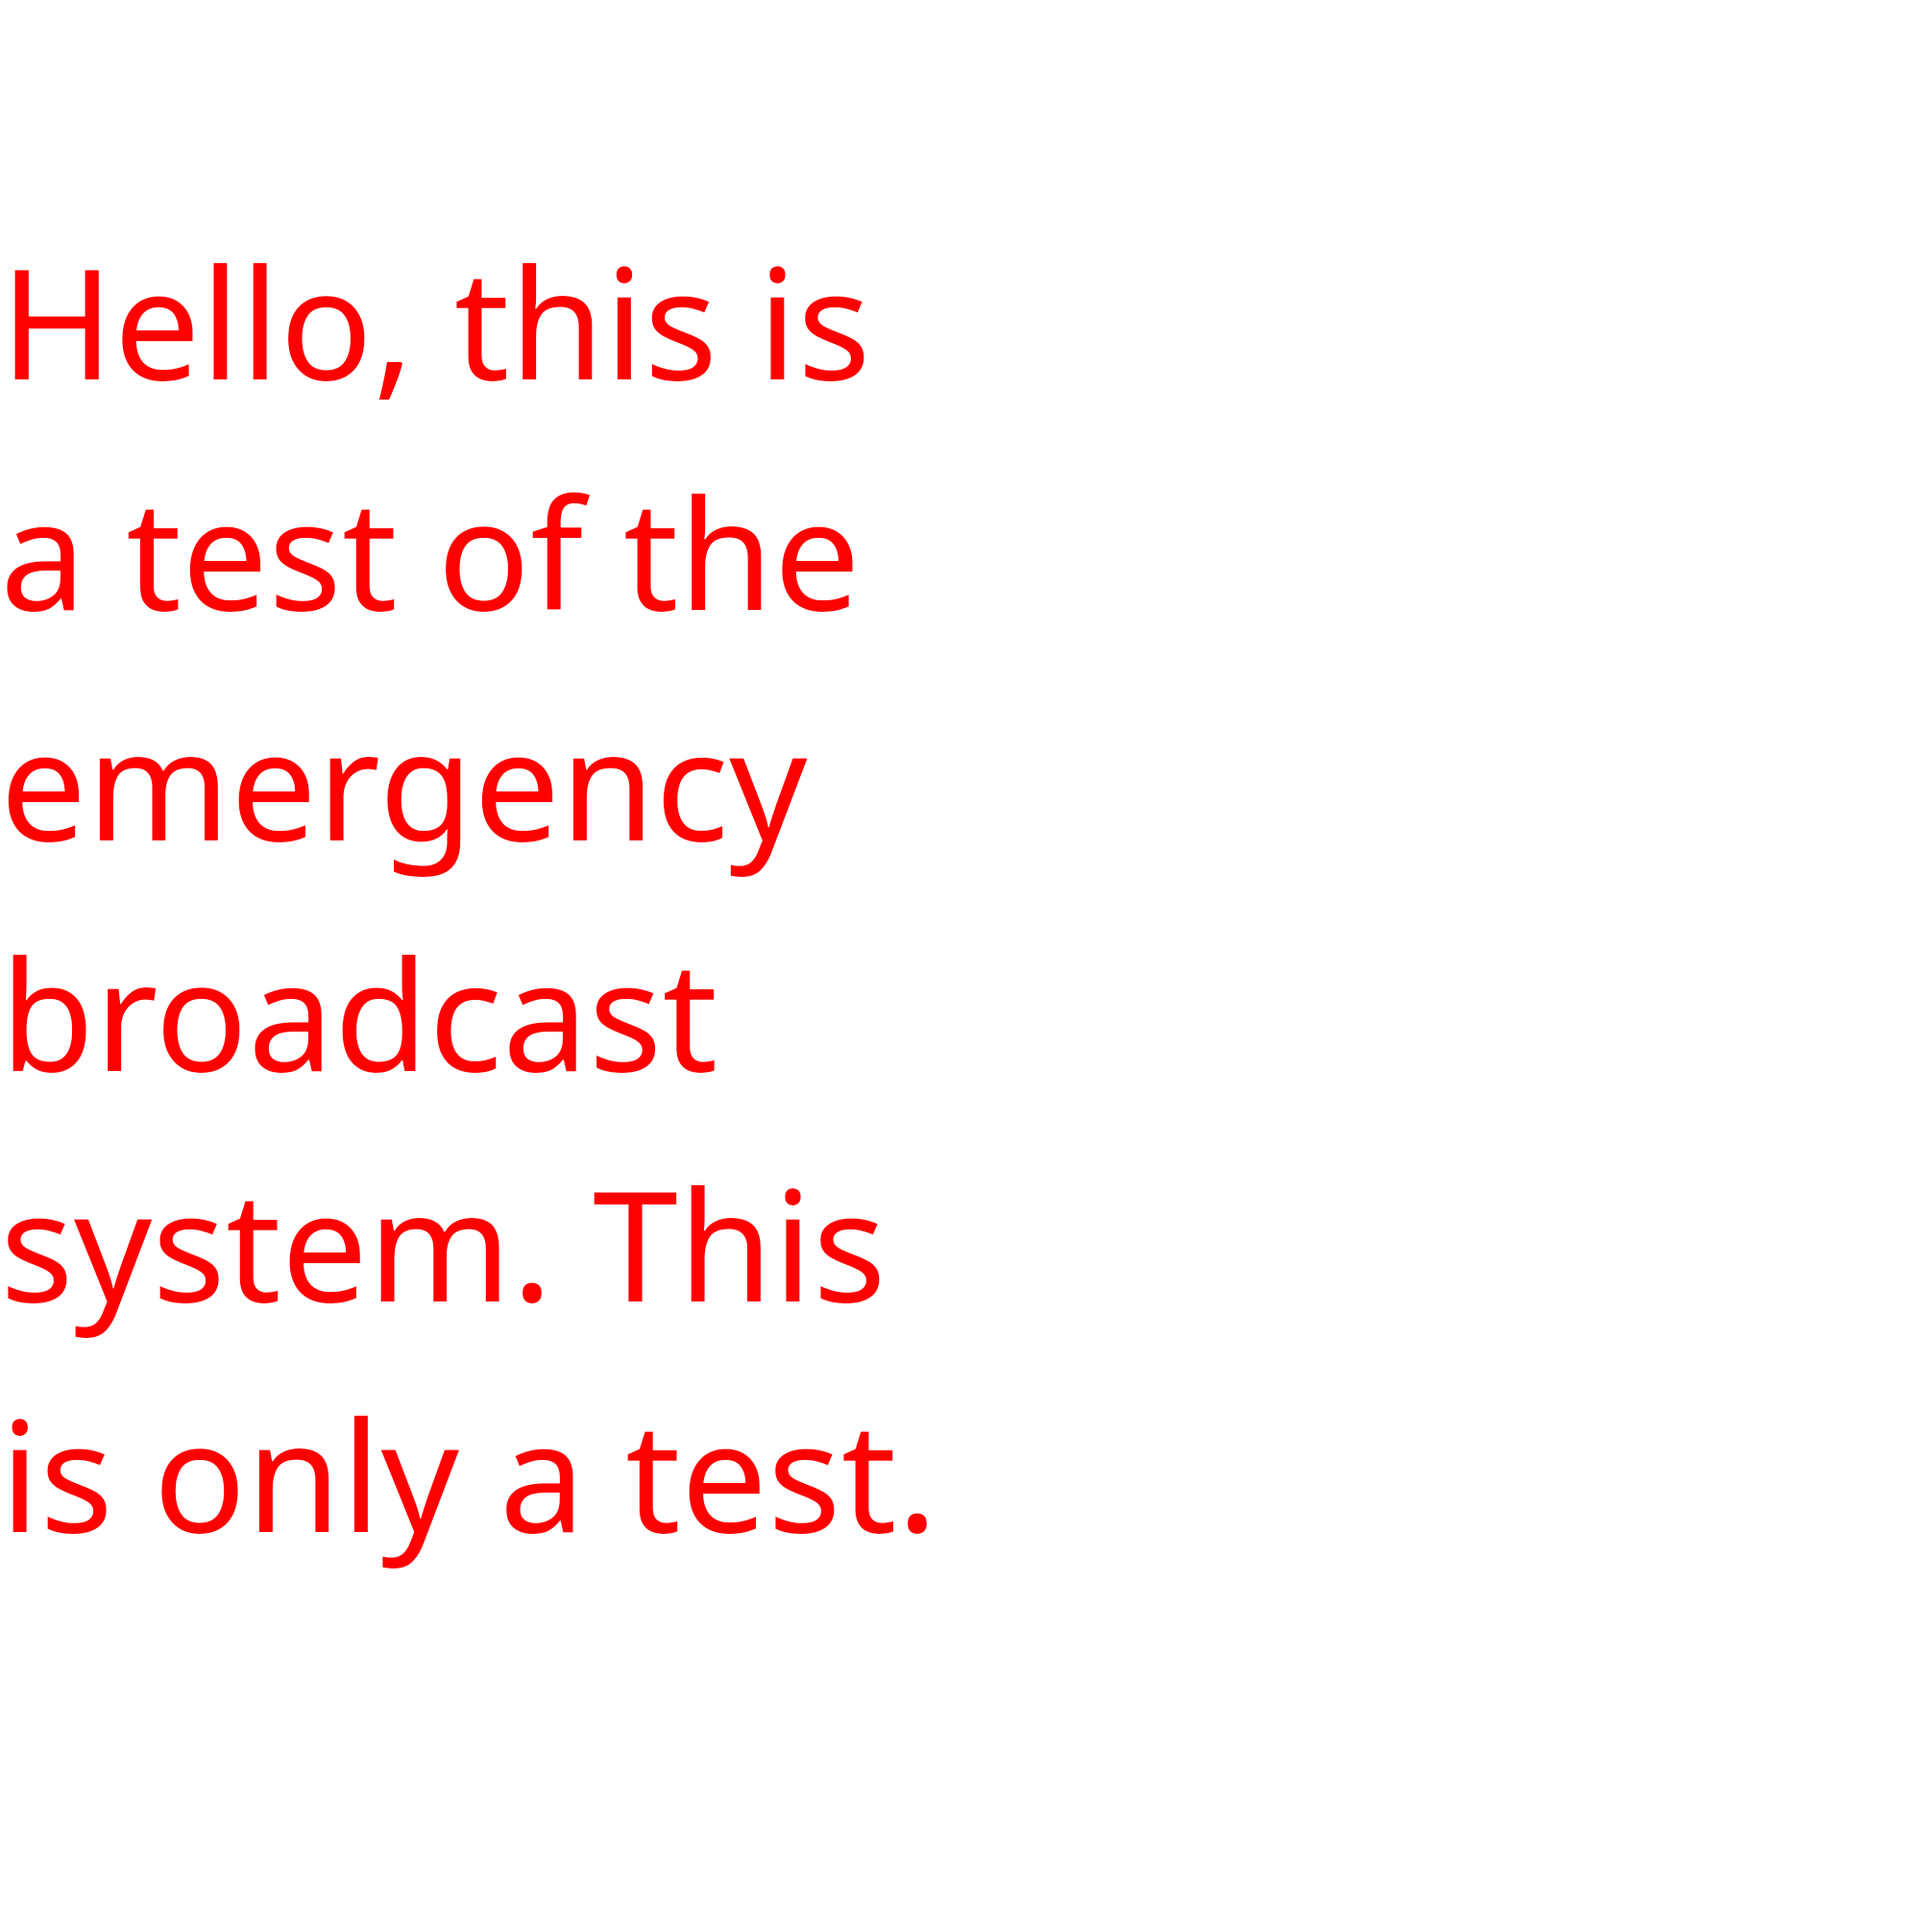
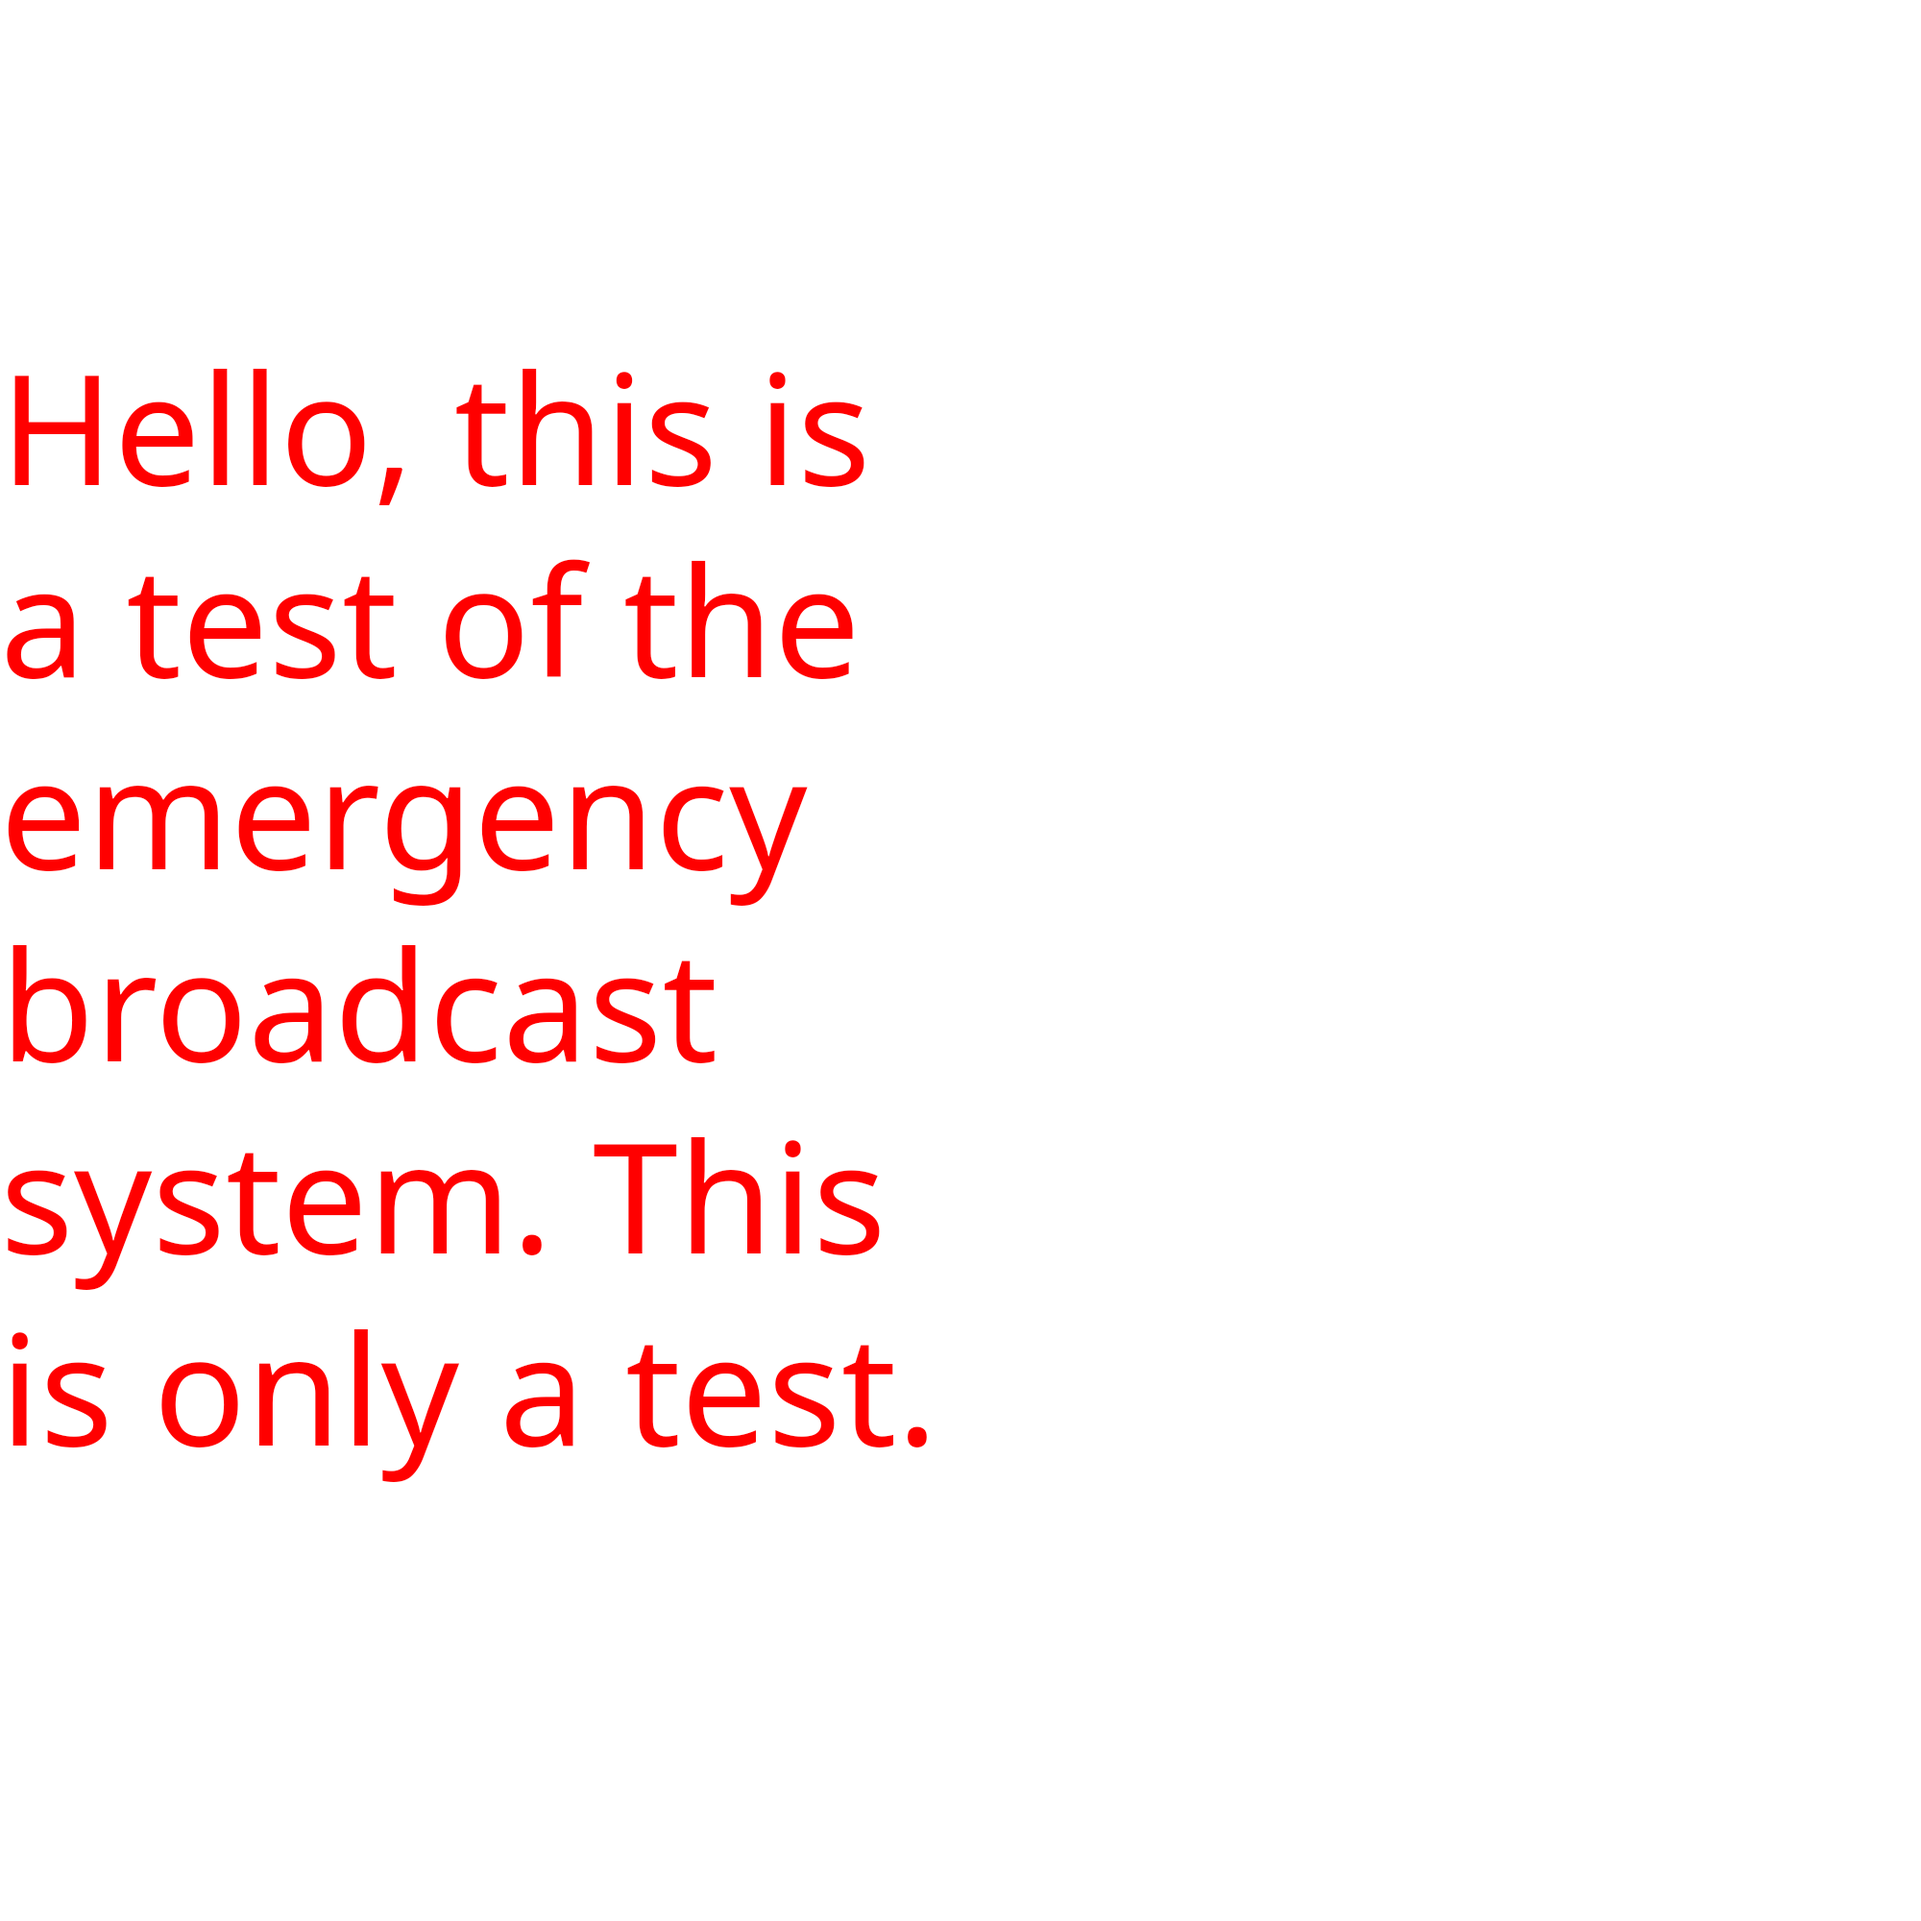
setup exports

Changed region(s): [[0.0, 0.124, 0.465, 0.558], [0.0, 0.589, 0.465, 0.837]]

diff --git a/split.ts b/split.ts
@@ -1,10 +1,10 @@
 import { heapStats } from "bun:jsc";
 
-import { Canvas as Canvas, type CanvasRenderingContext2D } from "skia-canvas";
+import { type CanvasRenderingContext2D } from "skia-canvas";
 
 console.log(heapStats().heapSize);
 
-const generateCharLengths = (
+export const generateCharLengths = (
   ctx: CanvasRenderingContext2D,
   font: string,
   fontSize: number,
@@ -37,34 +37,38 @@ const generateCharLengths = (
   return lengthsMap;
 };
 
-const canvasSplit = (
-  text: string,
-  maxWidth: number,
-  ctx: CanvasRenderingContext2D,
-  font: string,
-  fontSize: number,
-  charLengthCache: Map<string, number> | undefined = undefined,
-  saveNewValues: boolean = true
-): string[][] => {
+interface textWrapConfig {
+  text: string;
+  maxWidth: number;
+  ctx: CanvasRenderingContext2D;
+  font: string;
+  fontSize: number;
+  cache?: Map<string, number>;
+  updateCache?: boolean;
+}
+
+export const textWrap = (config: textWrapConfig): string[][] => {
+  const { ctx } = config;
+
   const charCacheLookup = (char: string): number => {
-    if (charLengthCache?.has(char)) {
-      return charLengthCache.get(char)!;
+    if (config.cache?.has(char)) {
+      return config.cache.get(char)!;
     }
 
     const width = ctx.measureText(char).width;
-    if (saveNewValues) {
-      charLengthCache?.set(char, width);
+    if (config.updateCache === undefined || config.updateCache) {
+      config.cache?.set(char, width);
     }
     return width;
   };
 
   const oldFont: string = ctx.font;
-  ctx.font = `${fontSize}px ${font}`;
+  ctx.font = `${config.fontSize}px ${config.font}`;
 
   const spaceWidth = charCacheLookup(" ");
 
   const final: string[][] = [];
-  const paragraphs: string[] = text.split("\n");
+  const paragraphs: string[] = config.text.split("\n");
 
   for (let i = 0; i < paragraphs.length; i++) {
     const paragraph: string = paragraphs[i];
@@ -89,9 +93,9 @@ const canvasSplit = (
 
       const futureWidth: number = lineWidth + addedWidth;
 
-      if (futureWidth > maxWidth) {
+      if (futureWidth > config.maxWidth) {
         // dc current line
-        let check = !(ctx.measureText(line).width > maxWidth);
+        let check = !(ctx.measureText(line).width > config.maxWidth);
         if (!check) {
           line = line.split(" ").slice(0, -1).join(" ");
         }
@@ -123,11 +127,11 @@ interface drawLinesConfig {
   textBaseline?: CanvasTextBaseline;
 }
 
-export type drawLinesParams = Omit<drawLinesConfig, "textBaseline"> & {
+type drawLinesParams = Omit<drawLinesConfig, "textBaseline"> & {
   textBaseline?: CanvasTextBaseline | "center";
 };
 
-const drawLines = (params: drawLinesParams): void => {
+export const drawLines = (params: drawLinesParams): void => {
   const defaultSettings: {
     lineHeight: number;
     textAlign: CanvasTextAlign;
@@ -192,7 +196,7 @@ const drawLines = (params: drawLinesParams): void => {
     if (i !== 0) {
       currentY += emAscent * config.lineHeight;
     }
-    params.ctx.fillText(flattenedLines[i], 0, currentY);
+    params.ctx.fillText(flattenedLines[i], config.x, currentY);
     currentY += emDescent * config.lineHeight;
   }
 
@@ -203,34 +207,3 @@ const drawLines = (params: drawLinesParams): void => {
     params.ctx[key] = oldCtx[key];
   }
 };
-
-const canvas = new Canvas(2000, 2000);
-const ctx = canvas.getContext("2d");
-
-{
-  ctx.scale(10, 10);
-
-  // setup canvas
-  ctx.fillStyle = "white";
-  ctx.fillRect(0, 0, 100, canvas.height);
-}
-const text =
-  "Hello, this is a test of the emergency broadcast system. This is only a test.";
-
-const charLengthCache = generateCharLengths(ctx, "Noto Sans", 16);
-
-const lines = canvasSplit(text, 100, ctx, "Noto Sans", 16, charLengthCache);
-
-drawLines({
-  lines,
-  ctx,
-  font: "Noto Sans",
-  fontSize: 16,
-  fontColor: "red",
-  x: 0,
-  y: 100,
-  lineHeight: 1.5,
-  textBaseline: "center",
-});
-
-canvas.saveAsSync("split.png");

diff --git a/splitTest.ts b/splitTest.ts
@@ -1,0 +1,40 @@
+import { Canvas } from "skia-canvas";
+import { textWrap, drawLines, generateCharLengths } from "./split";
+
+const canvas = new Canvas(2000, 2000);
+const ctx = canvas.getContext("2d");
+
+{
+  ctx.scale(10, 10);
+
+  // setup canvas
+  ctx.fillStyle = "white";
+  ctx.fillRect(0, 0, 100, canvas.height);
+}
+const text =
+  "Hello, this is a test of the emergency broadcast system. This is only a test.";
+
+const charLengthCache = generateCharLengths(ctx, "Noto Sans", 16);
+
+const lines = textWrap({
+  text,
+  maxWidth: 100,
+  ctx,
+  font: "Noto Sans",
+  fontSize: 16,
+  cache: charLengthCache,
+});
+
+drawLines({
+  lines,
+  ctx,
+  font: "Noto Sans",
+  fontSize: 16,
+  fontColor: "red",
+  x: 0,
+  y: 100,
+  lineHeight: 1.25,
+  textBaseline: "center",
+});
+
+canvas.saveAsSync("split.png");
